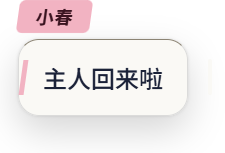
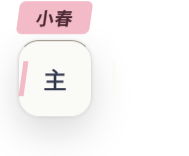
fix(desktop): make the 55 % floor outrank the composer dodge, not the other way round
Fix round 1's `avoid` dodge gated its "above" branch on the work-area top alone, so it
could undo the placement ruling commit 791a93d exists to satisfy. The composer with its
history pane open (48 + 420 = 468 DIP) is always clamped against the work-area bottom by
step 2's own deliberate exception, so there is NEVER room below it and every band flipped
above it, onto her face: on the contract's own PET {1476,296,420,720} / WA {0,0,1920,1040}
a 320x120 band landed at y 424 (17.8 % of the pet window), the 438x104 band the Electron
lane measured at y 440 (20.0 %), and a BUBBLE_MAX 460x320 band at y 224 -- minus 10 %, i.e.
entirely above the pet window with the notch pointing at nothing. With the plain 48 DIP
composer any band taller than ~174 DIP flipped up as well, and bubble-place.test.ts pinned
the 6-row-composer + 460x320 case at y 403 (14.9 %) as the EXPECTED result.

The above branch is now gated on `Math.max(waT, topFloor)`. When the dodge and the floor
conflict the floor wins and the band gives up the dodge -- the same give-up the "neither
side has room" case already used, and the same ordering C14 already had.

Tests: the corrected 6-row expectation now asserts the give-up (y 692 = step 2's row, the
two rects overlap); a new above-branch test uses a 920-tall work area where 698 >= the 692
floor, which is the only shape that branch has left; and a new sweep asserts, over every
band size x three composer heights x three work areas x four pet positions, both that the
[…]

diff --git a/apps/desktop/src/main/bubble-place.test.ts b/apps/desktop/src/main/bubble-place.test.ts
@@ -195,14 +195,63 @@ describe('placeBubble — the band steps clear of the visible composer (fix roun
     expect(insideWorkArea(withChat, band, WA)).toBe(true);
   });
 
-  it('goes above the composer when the work area has no room below it', () => {
-    // A six-row composer plus a full-height band cannot both fit under the anchor row, so the band
-    // takes the other side of the same flip.
+  it('goes above the composer when there is no room below AND the 55 % floor allows it', () => {
+    // A shorter work area (a tall taskbar) leaves no room under a one-row composer for an 80 DIP
+    // band, and 790 - 12 - 80 = 698 is still below the floor at 692 — so the band takes the other
+    // side of the same flip. This is the ONLY shape the above branch has after fix round 2.
+    const shortWa = { x: 0, y: 0, width: 1920, height: 920 };
+    const chat = composer(CHAT_BASE, PET, shortWa);
+    const band: Size = { width: 320, height: 80 };
+    const p = placeBubble(PET, band, shortWa, 'left', chat);
+    expect(chat.y + chat.height + BUBBLE_GAP + band.height)
+      .toBeGreaterThan(shortWa.y + shortWa.height - BUBBLE_PADDING); // no room below
+    expect(p.y).toBe(chat.y - BUBBLE_GAP - band.height);
+    expect(p.y).toBeGreaterThanOrEqual(Math.floor(topFloor(PET))); // and still off her face
+    expect(overlap(rectOf(p, band), chat)).toBe(false);
+    expect(insideWorkArea(p, band, shortWa)).toBe(true);
+  });
+
+  it('fix round 2 — the 55 % floor outranks the dodge: it overlaps rather than flip onto her face', () => {
+    // REGRESSION GUARD. Fix round 1 gated the above branch on `waT` alone, so a six-row composer
+    // plus a full-height band flipped the band to y = 403 — 14.9 % of the pet window, i.e. her
+    // face, the exact defect commit 02ad454 exists to prevent. The floor is a placement ruling; the
+    // dodge is a courtesy. With no room below the floor, the band keeps step 2's row and overlaps.
     const chat = composer(CHAT_SIX_ROWS);
     const p = placeBubble(PET, BUBBLE_MAX, WA, 'left', chat);
-    expect(p.y).toBe(chat.y - BUBBLE_GAP - BUBBLE_MAX.height);
-    expect(overlap(rectOf(p, BUBBLE_MAX), chat)).toBe(false);
+    expect(chat.y - BUBBLE_GAP - BUBBLE_MAX.height).toBeLessThan(Math.floor(topFloor(PET)));
+    expect(p.y).toBe(Math.round(topFloor(PET)));
+    expect(p.y).toBe(placeBubble(PET, BUBBLE_MAX, WA, 'left').y); // step 2's row, unchanged
+    expect(overlap(rectOf(p, BUBBLE_MAX), chat)).toBe(true);
     expect(insideWorkArea(p, BUBBLE_MAX, WA)).toBe(true);
+  });
+
+  it('fix round 2 — the dodge never lifts the band above the 55 % floor, at any size or display', () => {
+    // The sweep the round-1 tests did not have: floor test A runs without `avoid`, and the C14
+    // sweep below checks only the work area, so nothing caught the history-open composer pushing
+    // every band up onto her face. Note the one legitimate exception, already pinned by "the work
+    // area wins over the 55 % floor": when the band is too tall to fit between the floor and the
+    // work-area bottom, step 2 itself starts above the floor. The dodge must never make that worse.
+    const displays: Rect[] = [WA, { x: 1280, y: 0, width: 1920, height: 1040 }, { x: 0, y: 0, width: 1000, height: 600 }];
+    const aboveFloor: string[] = [];
+    const raisedByDodge: string[] = [];
+    for (const wa of displays) {
+      for (const px of [wa.x, wa.x + 40, wa.x + wa.width / 2 - 210, wa.x + wa.width - 420]) {
+        const pet = { x: px, y: wa.y + Math.max(0, wa.height - 720), width: 420, height: 720 };
+        const floor = Math.floor(topFloor(pet));
+        for (const chatSize of [CHAT_BASE, CHAT_SIX_ROWS, CHAT_HISTORY_OPEN]) {
+          const chat = composer(chatSize, pet, wa);
+          for (const size of everyBandSize()) {
+            const withChat = placeBubble(pet, size, wa, preferredSideFor(pet, wa), chat);
+            const alone = placeBubble(pet, size, wa, preferredSideFor(pet, wa));
+            const row = JSON.stringify({ wa, pet, chatSize, size, withChat, alone, floor });
+            if (alone.y >= floor && withChat.y < floor) aboveFloor.push(row);
+            if (withChat.y < Math.min(floor, alone.y)) raisedByDodge.push(row);
+          }
+        }
+      }
+    }
+    expect(aboveFloor).toEqual([]);
+    expect(raisedByDodge).toEqual([]);
   });
 
   it('never leaves the work area while dodging, at any band size or pet position (C14 still wins)', () => {
@@ -237,7 +286,9 @@ describe('placeBubble — the band steps clear of the visible composer (fix roun
             const p = placeBubble(pet, size, wa, preferredSideFor(pet, wa), chat);
             if (!overlap(rectOf(p, size), chat)) continue;
             const roomBelow = chat.y + chat.height + BUBBLE_GAP + size.height <= waB;
-            const roomAbove = chat.y - BUBBLE_GAP - size.height >= waT;
+            // `waT` is not the only constraint above: fix round 2 made the 55 % floor outrank the
+            // dodge, so "room above" means room above the FLOOR, not merely inside the work area.
+            const roomAbove = chat.y - BUBBLE_GAP - size.height >= Math.max(waT, topFloor(pet));
             if (roomBelow || roomAbove) unexplained.push(JSON.stringify({ wa, pet, chatSize, size, p }));
           }
         }

diff --git a/apps/desktop/src/main/bubble-place.ts b/apps/desktop/src/main/bubble-place.ts
@@ -140,11 +140,18 @@ export function placeBubble(
   if (avoid !== null && intersects({ x, y, ...size }, avoid)) {
     const below = avoid.y + avoid.height + BUBBLE_GAP;
     const above = avoid.y - BUBBLE_GAP - size.height;
+    // The above branch is gated on the 55 % floor as well as the work area. Without that guard the
+    // dodge undoes the placement ruling this file exists to satisfy: the composer with its history
+    // pane open (468 DIP) is always clamped against the work-area bottom, so there is NEVER room
+    // below it, and every band would flip up onto her face — a 460x320 band landed at y = 224,
+    // entirely above the pet window. The floor is the composition rule the controller ruled on; the
+    // dodge is a courtesy. The floor wins.
     if (below + size.height <= waB) y = below;
-    else if (above >= waT) y = above;
-    // Neither: this work area cannot hold both windows on this column. C14 outranks the dodge, so
-    // the band keeps its own placement and the two overlap — the pre-fix behaviour, in the one case
-    // where there is nowhere to put it. `bubble-place.test.ts` pins that this is the ONLY such case.
+    else if (above >= Math.max(waT, topFloor)) y = above;
+    // Neither: this column cannot hold both windows below the floor and inside the work area. C14
+    // and the 55 % floor both outrank the dodge, so the band keeps step 2's row and the two overlap
+    // — the pre-fix behaviour, in the one case where there is nowhere else to put it.
+    // `bubble-place.test.ts` pins that this is the ONLY such case.
   }
 
   // The notch sits on the pet-facing vertical edge, at the band's anchor row.

diff --git a/docs/superpowers/plans/2026-08-29-phase2-contracts.md b/docs/superpowers/plans/2026-08-29-phase2-contracts.md
@@ -2773,7 +2773,7 @@ Algorithm, exactly:
 3. **Column.** Candidate order is `[first, OPPOSITE[first]]` with `first = preferredSide === 'right' ? 'right' : 'left'` and `OPPOSITE = {left:'right', right:'left'}`. There are only two candidates: `top` and `bottom` are unreachable, and a `'top'`/`'bottom'` argument from a caller that predates this geometry reads as the default, `left`. Origins: `xFor('left') = petCx - size.width * BAND_PET_FRACTION`, `xFor('right') = petCx - size.width * (1 - BAND_PET_FRACTION)`. The band therefore **overlaps her body** — she stands at 80 % of its width on the left flip, 20 % on the right — and `BUBBLE_GAP` is not a gap to her.
 4. A candidate **fits** when `x >= waL` and `x + size.width <= waR`. The first fitting candidate wins (this is `flip()`). Only the horizontal axis flips; the row is already inside the work area by step 2.
 5. If neither fits (a band wider than the room either way), keep the preferred side and shift: `x = clamp(x, waL, max(waL, waR - size.width))`. The `max(...)` makes it left-aligned rather than producing a reversed range.
-6. **`avoid`** (added in Task 10 fix round 1). When `avoid` is non-null and `{x, y, ...size}` shares a pixel with it, the band steps out of its way on the vertical axis — the same flip-then-give-up discipline the horizontal axis uses. Below first: `y = avoid.y + avoid.height + BUBBLE_GAP` when `y + size.height <= waB`; otherwise above: `y = avoid.y - BUBBLE_GAP - size.height` when `y >= waT`. When neither side of `avoid` has room the band keeps step 2's `y` and the two rects overlap — **C14 outranks the dodge**, and `bubble-place.test.ts` pins that this is the only case in which they can overlap. `avoid` is only ever the VISIBLE composer's rect, and only the band ever passes it (§6.1).
+6. **`avoid`** (added in Task 10 fix round 1; the floor guard added in **fix round 2**). When `avoid` is non-null and `{x, y, ...size}` shares a pixel with it, the band steps out of its way on the vertical axis — the same flip-then-give-up discipline the horizontal axis uses. Below first: `y = avoid.y + avoid.height + BUBBLE_GAP` when `y + size.height <= waB`; otherwise above: `y = avoid.y - BUBBLE_GAP - size.height` when `y >= max(waT, topFloor)`. **When the dodge and the 55 % floor conflict, the FLOOR wins**: the band gives up the dodge, keeps step 2's `y`, and the two rects overlap. The floor is the controller's placement ruling (`02ad454` exists to satisfy it); the dodge is a courtesy, and a courtesy may not put the band on her face. Without that guard the composer with its history pane open — 468 DIP, always clamped against the work-area bottom by step 2's own deliberate exception, so there is never room below it — pushed every band above the composer and above the pet window itself (a 460×320 band landed at `y = 224`, i.e. −10 % of the pet). So the band keeps step 2's `y` and the two rects overlap in **two** cases now: when neither side of `avoid` has room inside the work area (**C14 outranks the dodge**), and when the only side with room is above the 55 % floor (**the floor outranks the dodge**). `bubble-place.test.ts` pins that these are the only cases in which they can overlap, and that the dodge never raises the band above `min(topFloor, step 2's y)`. `avoid` is only ever the VISIBLE composer's rect, and only the band ever passes it (§6.1).
 7. `arrowOffset = clamp(bandCy - y, ARROW_MARGIN, max(ARROW_MARGIN, size.height - ARROW_MARGIN))` — the notch sits on the pet-facing **vertical** edge at the band's anchor row. There is no horizontal-tail case any more.
 8. `x`, `y` and `arrowOffset` are `Math.round`ed last (Electron `setBounds` takes integers); the fit tests use the unrounded values.
 
@@ -3111,7 +3111,7 @@ Positioning: `openChat` calls **`placeBubble(petBounds, {width: CHAT_WIDTH, heig
 
 > **AMENDED, Task 10 fix round 1 (2026-08-29).** This paragraph used to pin the literal `'top'`, and the note below it recorded "the composer sits centred on her head … so no one fixes it back". Both are retired with `HEAD_ANCHOR` (§5.3): `'top'` is no longer a reachable side, and the composer over her face was the defect the controller ordered fixed (`desktop-chat-over-pet.png`). What survives from that note is the part that was always right — **there is exactly one placement implementation**, `placeBubble`, with `bubble-place.test.ts` behind it and C14's monitor-edge guarantee free; a second placement path for the chat window is still the rejected alternative (§8.6 row 16).
 >
-> **The two surfaces are one object in two states, but both windows can be on screen at once.** §6.2 rule 4 keeps the composer open for the whole reply (Escape cancels instead of closing while `brainState !== 'idle'`) and rule 6 needs it open to restore the text on `brain:error`. Two always-on-top windows on one rect therefore render two different texts into the same pixels — visible in `docs/evidence/phase2/app-placement.png`. The composer keeps the rect; **the BAND steps out of its way** through `placeBubble`'s `avoid` (§5.3 step 6), below it when the work area has room and above it otherwise. `brain-service.ts` supplies `avoid` from the chat window's bounds on every band placement and re-places the band on the chat window's `show`/`hide` and on `chat:resize`, so every path into and out of the composer state is covered without widening `openChat` / `resizeChat`. Hiding the band instead was rejected: it would make her whole reply invisible for as long as the composer is up.
+> **The two surfaces are one object in two states, but both windows can be on screen at once.** §6.2 rule 4 keeps the composer open for the whole reply (Escape cancels instead of closing while `brainState !== 'idle'`) and rule 6 needs it open to restore the text on `brain:error`. Two always-on-top windows on one rect therefore render two different texts into the same pixels — visible in `docs/evidence/phase2/app-placement.png`. The composer keeps the rect; **the BAND steps out of its way** through `placeBubble`'s `avoid` (§5.3 step 6), below it when the work area has room, above it when the work area does not but the 55 % floor still allows it, and not at all — the two rects overlap — when the only remaining room is above her face. Fix round 2: **the 55 % floor outranks the dodge**, exactly as C14 does. `brain-service.ts` supplies `avoid` from the chat window's bounds on every band placement and re-places the band on the chat window's `show`/`hide` and on `chat:resize`, so every path into and out of the composer state is covered without widening `openChat` / `resizeChat`. Hiding the band instead was rejected: it would make her whole reply invisible for as long as the composer is up.
 
 Light dismiss: `win.on('blur', …)` closes the chat **unless** the last `chat:composing` said `{on:true}` (an IME candidate window steals focus). `Esc` in the renderer sends `chat:close`.
 

diff --git a/docs/evidence/phase2/deferred.md b/docs/evidence/phase2/deferred.md
@@ -126,14 +126,14 @@ open.
 | idle CPU, whole Electron tree | 1.27 % | ≤ 4 % | **within bar** |
 | speaking CPU | 3.36 % | ≤ 4 % | **within bar** (30 Hz pet + reveal timer + mouth sync) |
 | cold-profile first message | 391–476 ms over four launches | ≤ 3 s (controller ruling) | **within bar**, on a virgin `--user-data-dir` every time. aa0e9df's replay fix holds. |
-| composer / band top edge vs the pet | 68.6 % of the pet window's height | ≥ 55 % (controller ruling) | **within bar** in the running app, both themes; 22 unit tests pin it across the whole band size range. |
-| band rect vs composer rect, both visible | disjoint | no shared pixel | **within bar.** Fixed in review round 1: the band dodges the visible composer (`placeBubble`'s `avoid`). Pinned by four unit tests over three work areas × four pet positions × three composer heights × the whole band size range, and asserted in the Electron lane while both windows are up. |
+| composer / band top edge vs the pet | 68.6 % of the pet window's height | ≥ 55 % (controller ruling) | **within bar, with one documented exception.** 68.6 % is the composer in the running app, both themes; 24 unit tests pin the rule across the whole band size range. The exception is the work-area yield — a window too tall to fit between the floor and the work-area bottom is placed against the work area, C14 outranking the floor (the 360 × 468 row below). Fix round 2 closed a hole the other way: round 1's composer dodge was gated on the work area alone, so with the history pane open every band flipped **above** the floor onto her face (460 × 320 landed at −10 % of the pet). The floor now outranks the dodge too, pinned by a sweep over every band size × three composer heights × three work areas. |
+| band rect vs composer rect, both visible | disjoint whenever there is anywhere legal to dodge to | no shared pixel | **within bar for the shapes the app ships.** Fixed in review round 1: the band dodges the visible composer (`placeBubble`'s `avoid`). Pinned by seven unit tests over three work areas × four pet positions × three composer heights × the whole band size range, and asserted in the Electron lane while both windows are up (one-row composer, mid-reply, both themes). Two cases deliberately still overlap, both because somewhere else outranks the dodge: no room either side inside the work area (C14), and — added in fix round 2 — room only *above* the 55 % floor, which the history-open composer produces for every band. Her line then sits on her lower third under the composer's edge, which is the lesser of the two defects. |
 | A9/A19 and the other 14 judged axes | NOT MEASURED | — | Insufficient balance. Neither passed nor failed. |
 | R4 first-sentence p50 | NOT MEASURED | ≤ 1200 ms | Insufficient balance. |
 | X1 prompt-cache hit | NOT MEASURED | ≥ 70 % | Insufficient balance. |
 | addendum §0 paint latency | NOT MEASURED | ≤ 100 ms | Insufficient balance. |
 | display-removal reconciliation | UNTESTABLE | — | One monitor on this machine. The handler path was exercised synthetically: the pet window is first moved **outside** the work area, then `screen.emit('display-removed')` and `('display-metrics-changed')` are fired, and the assertion is that `reconcileDisplays` pulled her back to a grabbable position and the band followed. That assertion fails if the handler is removed (it did not, before fix round 1 moved the windows out first). A physical unplug and a real scale change were still not produced. |
-| the chat window with the history pane open (360 × 468 DIP) | top edge at 36 % of the pet | ≥ 55 % | **Deliberate exception.** 468 DIP does not fit between 55 % of the pet and the work-area bottom, so C14 (never cross the work area) wins and the window is placed against it. Still far below her face — the defect this replaced put the top edge at ~5 %. Pinned by its own unit test. |
+| the chat window with the history pane open (360 × 468 DIP) | top edge at 36 % of the pet | ≥ 55 % | **Deliberate exception.** 468 DIP does not fit between 55 % of the pet and the work-area bottom, so C14 (never cross the work area) wins and the window is placed against it. Still far below her face — the defect this replaced put the top edge at ~5 %. Pinned by its own unit test. Consequence, found in fix round 2: because this window is always against the work-area bottom there is never room **below** it, so the band cannot dodge downwards while the history pane is open. It now keeps its own row and overlaps the composer rather than flipping above the 55 % floor. |
 | `eval-report-final.json`, `session-20-turns.json`, `app-20-turns.json` | not produced | — | A machine-readable report is either a measurement or a lie. The `.md` siblings exist and say NOT MEASURED. |
 | `app-desktop.png`, `app-history-interrupted.png` | produced by the **offline** lane | — | The brief has the real-API test produce both. With the API unreachable they were produced on `DS_FAKE_BRAIN=1` instead — real windows, real compositor, real interruption path, scripted words. The real-API run would overwrite them. |
 | `task-3-card-tokens.txt` | 140 bytes | > 200 bytes (the brief's own completeness floor) | The brief's Step 1 and Step 18 gates reject any evidence file under 200 bytes. That file is six correct lines and is 140 bytes. The gate's floor is wrong for it, not the file; both gates were run as written and this is the one row they flag. |

diff --git a/docs/evidence/phase2/README.md b/docs/evidence/phase2/README.md
@@ -24,20 +24,37 @@ be measured, and the exact commands that will measure it: [`not-measured.md`](no
 | prompt-cache hit, turns 3+ (session) | **NOT MEASURED** | ≥ 70 % (X1) | [`metrics-cache-hit.txt`](metrics-cache-hit.txt) |
 | prompt-cache hit, turns 3–20 (in app) | **NOT MEASURED** | ≥ 70 % (X1) | [`app-20-turns.md`](app-20-turns.md) |
 | tuning iterations | 0 of 3 | ≤ 3 (R8) | [`tuning-log.md`](tuning-log.md) |
-| cold-profile first message, virgin `--user-data-dir` | 391 · 456 · 462 · 476 ms (round 1) · 688–721 ms over eight more launches (fix round 1) | ≤ 3 s | [`app-first-message-cold.png`](app-first-message-cold.png), `e2e-report.json` |
-| band / composer top edge vs the pet window | 68.6 % | ≥ 55 % of the pet's height | [`app-placement.png`](app-placement.png), `bubble-place.test.ts` |
-| band rect vs composer rect, both visible | no shared pixel, light and dark and mid-reply | disjoint | [`app-placement.png`](app-placement.png), [`app-desktop.png`](app-desktop.png), [`app-inapp-checks.md`](app-inapp-checks.md) |
+| cold-profile first message, virgin `--user-data-dir` | 391 · 456 · 462 · 476 ms (round 1) · 688–721 ms over eight more launches (fix round 1) · 382 · 720 ms (fix round 2) | ≤ 3 s | [`app-first-message-cold.png`](app-first-message-cold.png), `e2e-report.json` |
+| band / composer top edge vs the pet window | 68.6 % measured in the app; ≥ 55 % held at every band size the unit sweep tries, **except** where the work area forces the window up | ≥ 55 % of the pet's height, C14 permitting | [`app-placement.png`](app-placement.png), `bubble-place.test.ts` |
+| band rect vs composer rect, both visible | no shared pixel with the one-row composer, light and dark and mid-reply | disjoint wherever the dodge has somewhere legal to go — see the note below | [`app-placement.png`](app-placement.png), [`app-desktop.png`](app-desktop.png), [`app-inapp-checks.md`](app-inapp-checks.md) |
 | idle CPU / working set (whole Electron tree, 7 processes) | 1.27 % / **750.3 MB** | ≤ 4 % / ≤ 250 MB | [`resources.md`](resources.md) — CPU passes, **memory misses by 3×** |
 | speaking CPU / working set | 3.36 % / 742.2 MB | ≤ 4 % / ≤ 250 MB | [`resources.md`](resources.md) |
 | card budget | 673 / 700 tokens | ≤ 700 (A21) | [`task-3-card-tokens.txt`](task-3-card-tokens.txt) |
 | in-app checks Task 6 could not run | 6 PASS, 1 UNTESTABLE | — | [`app-inapp-checks.md`](app-inapp-checks.md) |
 | offline Electron end-to-end lane | 4 passed, 0 unexpected, 1 skipped (the gated real-API test) | — | [`e2e-report.json`](e2e-report.json) |
 
-`resources.md` carries **four** rows, not two: fix round 1 re-ran the Electron lane to re-photograph
-the placement fix, and every run appends its own `idle` / `speaking` sample. The second pair
-corroborates the first rather than replacing it — idle **1.25 %** / 748.2 MB, speaking **2.48 %** /
-747.0 MB — and the headline rows above are still the original pair. Neither number was re-rolled to
-get a friendlier one: the memory bar is missed by ~3× in both.
+The 55 % row is a bar with **one** documented exception, not an unqualified pass. A window too tall
+to fit between the floor and the work-area bottom is placed against the work area instead — C14 wins
+— which is what the 468 DIP composer-with-history does (top edge at 36 % of the pet; see
+[`deferred.md`](deferred.md)). Fix round 2 closed a hole in the other direction: round 1's composer
+dodge could flip the **band** above the floor and onto her face (a 460×320 band under the
+history-open composer landed at −10 % of the pet, i.e. clear above the pet window). The floor now
+outranks the dodge, and a sweep test pins `y` at every band size × three composer heights × three
+work areas. The 68.6 % figure above is the composer's top edge as measured in the running app with a
+one-row composer; the unit sweep, not that single photograph, is what covers the rest of the range.
+
+The price of that ordering is the row above it: the band and the composer are disjoint whenever the
+dodge has somewhere legal to go, and they **overlap** in the two cases where it does not — no room
+either side inside the work area (C14 wins), and room only above the 55 % floor (the floor wins),
+which the history-open composer produces for every band. The photographs show the shipped one-row
+case, where the band steps below and the two are disjoint.
+
+`resources.md` carries **six** rows, not two: fix round 1 re-ran the Electron lane to re-photograph
+the placement fix and fix round 2 re-ran it as a regression check, and every run appends its own
+`idle` / `speaking` sample. The later pairs corroborate the first rather than replacing it — round 1
+idle **1.25 %** / 748.2 MB, speaking **2.48 %** / 747.0 MB; round 2 idle **0.93 %** / 757.2 MB,
+speaking **1.92 %** / 746.4 MB — and the headline rows above are still the original pair. No number
+was re-rolled to get a friendlier one: the memory bar is missed by ~3× in all three.
 
 ## The light/dark sheet
 

diff --git a/docs/evidence/phase2/resources.md b/docs/evidence/phase2/resources.md
@@ -9,3 +9,5 @@ CPU is the summed TotalProcessorTime delta / window / logical cores, so 100 % me
 | speaking | 7 | 5 | 3.36 | 742.2 |
 | idle | 7 | 10 | 1.25 | 748.2 |
 | speaking | 7 | 5 | 2.48 | 747 |
+| idle | 7 | 10 | 0.93 | 757.2 |
+| speaking | 7 | 5 | 1.92 | 746.4 |
